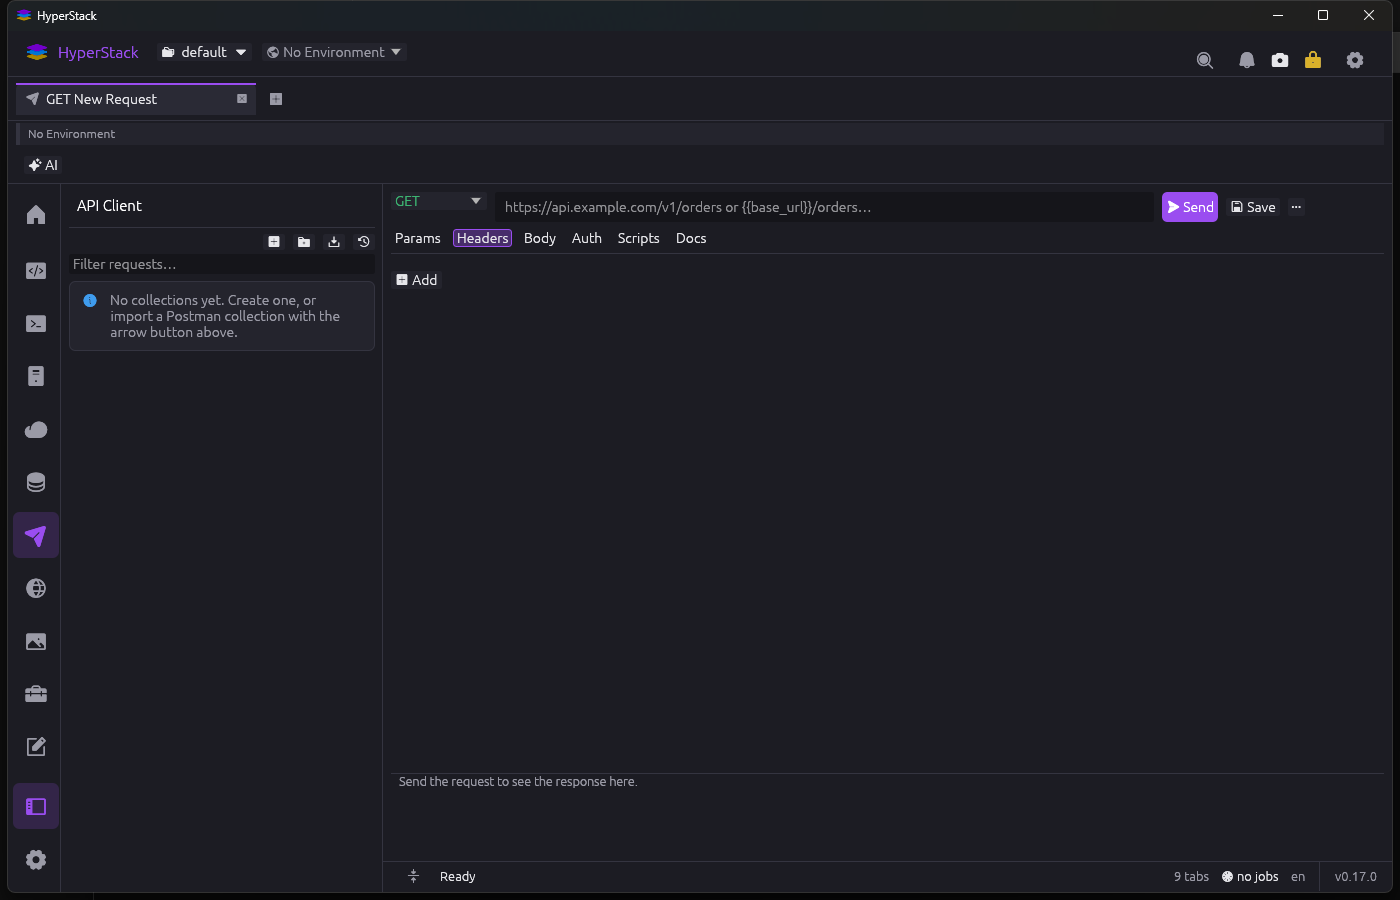
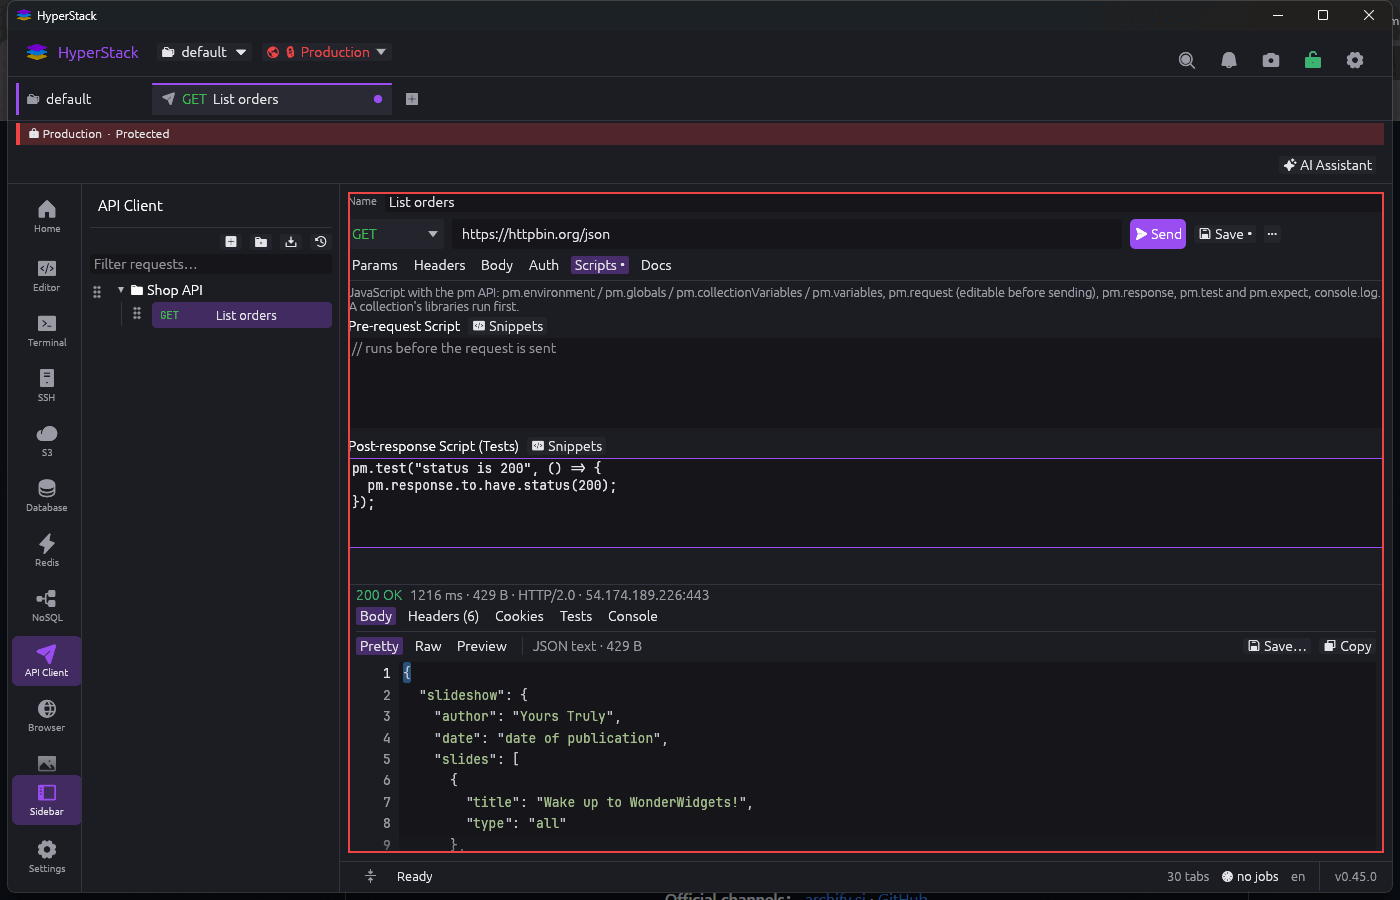
docs: refresh the API client, Browser and AI settings screenshots
The API shots now show a saved Shop API collection, a live GET with its 200\nresponse and a completed pm.test; the Browser shot shows the favourites and\npasswords sidebar, and the AI settings shot the Add a Provider gallery. The\nwalkthrough GIF is rebuilt with the API and Browser frames.

The smoke harness gained focus, which makes the window topmost for a moment\nso Windows accepts SetForegroundWindow from the capture shell.

diff --git a/README.md b/README.md
@@ -277,7 +277,7 @@ keys typed into a utility are never saved.
 | | |
 |---|---|
 | ![Browser](docs/screenshots/browser.png) | |
-| **Browser** — WebView2 pages in multi-row tabs: address bar with search fallback, back/forward/reload/home, per-page ad and tracker blocking, JavaScript switch, forced dark rendering, zoom, Inspect, Print; pages restored per workspace; Shift+click a terminal link to open it here (Windows) | |
+| **Browser** — WebView2 pages in multi-row tabs, with favourites and saved logins in the sidebar: address bar with search fallback, back/forward/reload/home, per-page ad and tracker blocking, JavaScript switch, forced dark rendering, zoom, Inspect, Print; pages restored per workspace; Shift+click a terminal link to open it here (Windows) | |
 | ![Favourites](docs/screenshots/browser-favourites.png) | ![Passwords](docs/screenshots/browser-passwords.png) |
 | **Favourites** - a per-workspace tree with folders and a bar under the address bar, Chrome's click rules; the star adds the open page | **Passwords** - per-workspace logins; username, password, passkey and API key live in the vault, and Fill in Password is in the toolbar |
 

diff --git a/docs/screenshots/README.md b/docs/screenshots/README.md
@@ -133,4 +133,13 @@ pane), plus `db-browse.png`, `db-query.png` and `db-cell-viewer.png` against
 the SQLite `shop.db` (schema tree with columns and indexes, a JOIN with
 results, and a pretty-printed JSON cell). The SQL shots no longer depend on
 a PostgreSQL server. `scripts/gui-smoke.ps1` gained `dclick` and `drag` for
-these captures (a table's rows, the editor/result splitter).
+these captures (a table's rows, the editor/result splitter). The API client
+shots were reworked in the same pass: `api-client.png` shows a saved
+`Shop API` collection and a live `GET https://httpbin.org/json` with the 200
+response, and `api-client-scripts.png` a completed `pm.test` in the
+post-response editor. Capturing them uncovered the dashboard's **New
+Collection** button doing nothing (its dialog was only drawn on a request
+tab); that is fixed in the same set. `browser.png` also shows the current
+Browser sidebar (Favorites and Passwords) with DuckDuckGo open, and
+`settings-ai.png` the Add a Provider gallery (OpenAI, Anthropic, Gemini,
+Azure, Bedrock, Mistral, Moonshot, Hunyuan, 1min.AI and the rest).
